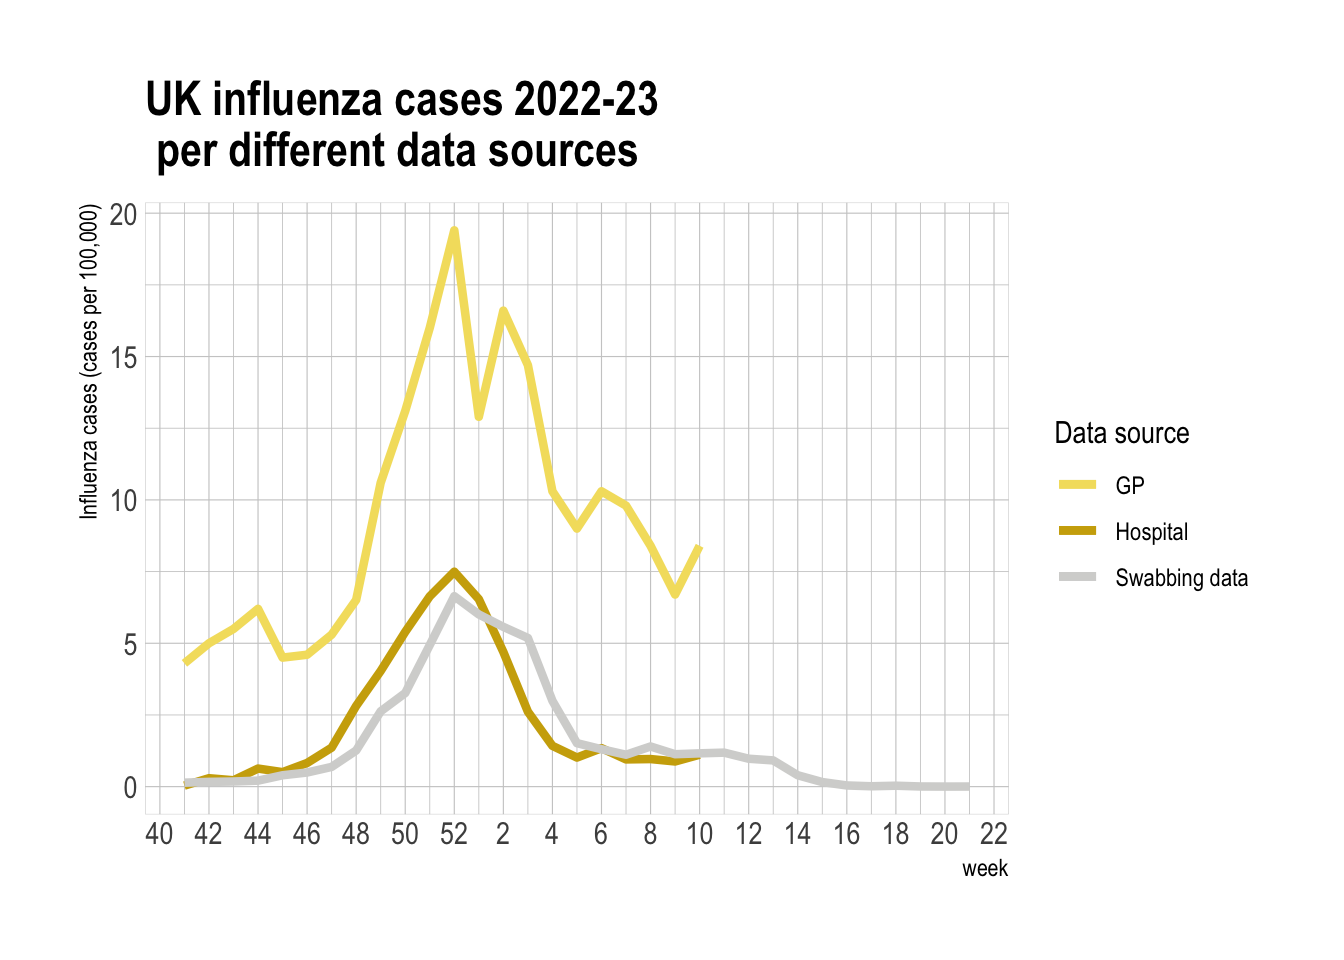
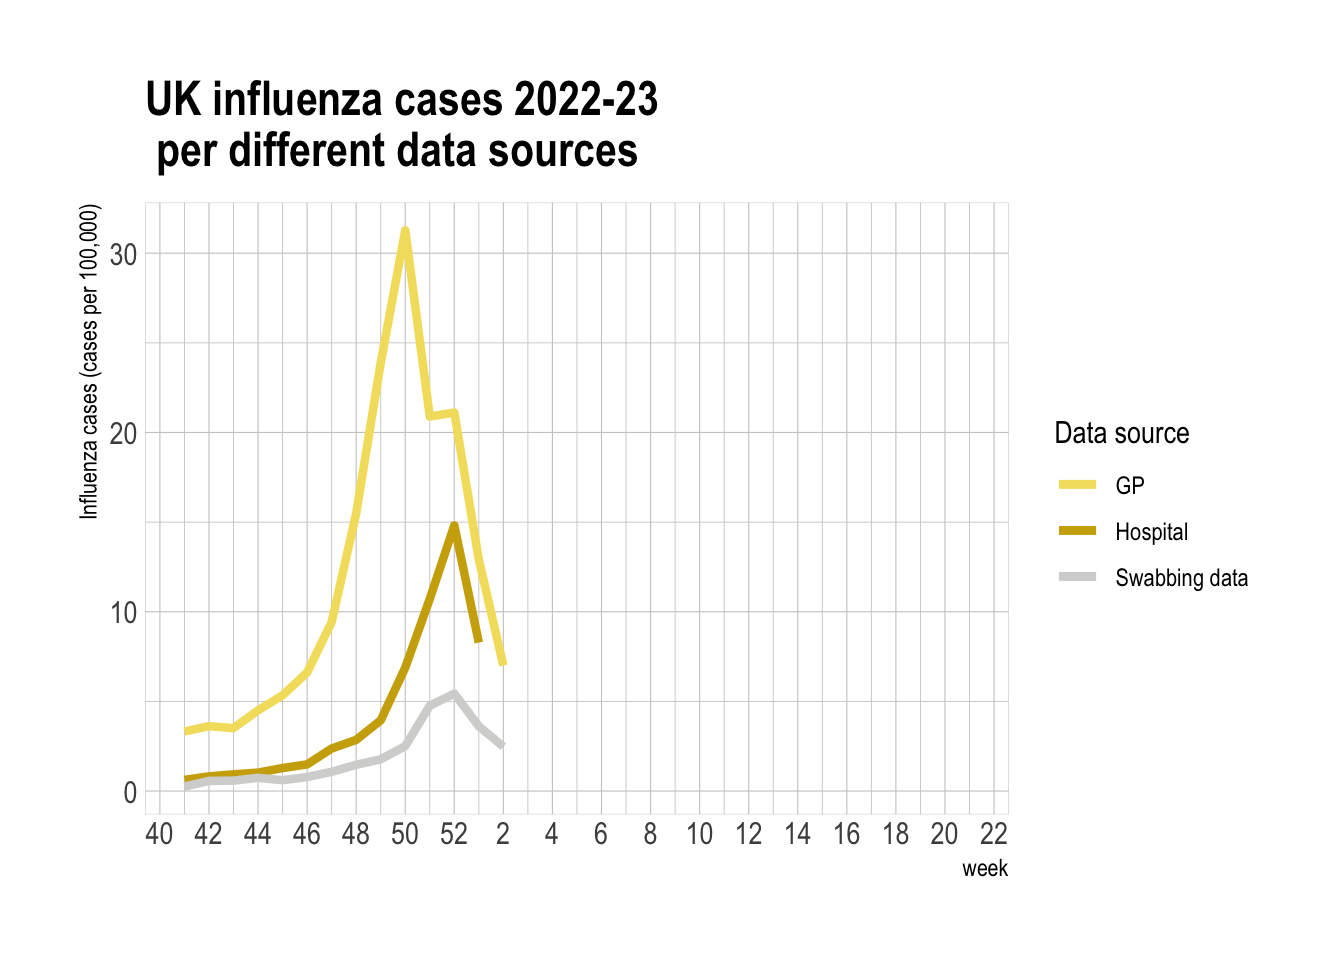
fixed plots and log plots

diff --git a/report/UKHSA_report.html b/report/UKHSA_report.html
@@ -20,69 +20,6 @@ ul.task-list li input[type="checkbox"] {
   margin: 0 0.8em 0.2em -1.6em;
   vertical-align: middle;
 }
-pre > code.sourceCode { white-space: pre; position: relative; }
-pre > code.sourceCode > span { display: inline-block; line-height: 1.25; }
-pre > code.sourceCode > span:empty { height: 1.2em; }
-.sourceCode { overflow: visible; }
-code.sourceCode > span { color: inherit; text-decoration: inherit; }
-div.sourceCode { margin: 1em 0; }
-pre.sourceCode { margin: 0; }
-@media screen {
-div.sourceCode { overflow: auto; }
-}
-@media print {
-pre > code.sourceCode { white-space: pre-wrap; }
-pre > code.sourceCode > span { text-indent: -5em; padding-left: 5em; }
-}
-pre.numberSource code
-  { counter-reset: source-line 0; }
-pre.numberSource code > span
-  { position: relative; left: -4em; counter-increment: source-line; }
-pre.numberSource code > span > a:first-child::before
-  { content: counter(source-line);
-    position: relative; left: -1em; text-align: right; vertical-align: baseline;
-    border: none; display: inline-block;
-    -webkit-touch-callout: none; -webkit-user-select: none;
-    -khtml-user-select: none; -moz-user-select: none;
-    -ms-user-select: none; user-select: none;
-    padding: 0 4px; width: 4em;
-    color: #aaaaaa;
-  }
-pre.numberSource { margin-left: 3em; border-left: 1px solid #aaaaaa;  padding-left: 4px; }
-div.sourceCode
-  {   }
-@media screen {
-pre > code.sourceCode > span > a:first-child::before { text-decoration: underline; }
-}
-code span.al { color: #ff0000; font-weight: bold; } /* Alert */
-code span.an { color: #60a0b0; font-weight: bold; font-style: italic; } /* Annotation */
-code span.at { color: #7d9029; } /* Attribute */
-code span.bn { color: #40a070; } /* BaseN */
-code span.bu { color: #008000; } /* BuiltIn */
-code span.cf { color: #007020; font-weight: bold; } /* ControlFlow */
-code span.ch { color: #4070a0; } /* Char */
-code span.cn { color: #880000; } /* Constant */
-code span.co { color: #60a0b0; font-style: italic; } /* Comment */
-code span.cv { color: #60a0b0; font-weight: bold; font-style: italic; } /* CommentVar */
-code span.do { color: #ba2121; font-style: italic; } /* Documentation */
-code span.dt { color: #902000; } /* DataType */
-code span.dv { color: #40a070; } /* DecVal */
-code span.er { color: #ff0000; font-weight: bold; } /* Error */
-code span.ex { } /* Extension */
-code span.fl { color: #40a070; } /* Float */
-code span.fu { color: #06287e; } /* Function */
-code span.im { color: #008000; font-weight: bold; } /* Import */
-code span.in { color: #60a0b0; font-weight: bold; font-style: italic; } /* Information */
-code span.kw { color: #007020; font-weight: bold; } /* Keyword */
-code span.op { color: #666666; } /* Operator */
-code span.ot { color: #007020; } /* Other */
-code span.pp { color: #bc7a00; } /* Preprocessor */
-code span.sc { color: #4070a0; } /* SpecialChar */
-code span.ss { color: #bb6688; } /* SpecialString */
-code span.st { color: #4070a0; } /* String */
-code span.va { color: #19177c; } /* Variable */
-code span.vs { color: #4070a0; } /* VerbatimString */
-code span.wa { color: #60a0b0; font-weight: bold; font-style: italic; } /* Warning */
 div.csl-bib-body { }
 div.csl-entry {
   clear: both;
@@ -204,24 +141,15 @@ div.csl-indent {
 <section id="season" class="level3">
 <h3 class="anchored" data-anchor-id="season">Season</h3>
 <div class="cell">
-<div class="sourceCode cell-code" id="cb1"><pre class="sourceCode r code-with-copy"><code class="sourceCode r"><span id="cb1-1"><a href="#cb1-1" aria-hidden="true" tabindex="-1"></a><span class="fu">source</span>(<span class="st">"../R_scripts/Season_data/season_201718.R"</span>)</span>
-<span id="cb1-2"><a href="#cb1-2" aria-hidden="true" tabindex="-1"></a><span class="fu">source</span>(<span class="st">"../R_scripts/Season_data/season_201819.R"</span>)</span>
-<span id="cb1-3"><a href="#cb1-3" aria-hidden="true" tabindex="-1"></a><span class="fu">source</span>(<span class="st">"../R_scripts/Season_data/season_201920.R"</span>)</span>
-<span id="cb1-4"><a href="#cb1-4" aria-hidden="true" tabindex="-1"></a><span class="fu">source</span>(<span class="st">"../R_scripts/Season_data/season_202223.R"</span>)</span>
-<span id="cb1-5"><a href="#cb1-5" aria-hidden="true" tabindex="-1"></a><span class="fu">par</span>(<span class="at">mfrow=</span><span class="fu">c</span>(<span class="dv">2</span>,<span class="dv">2</span>))</span>
-<span id="cb1-6"><a href="#cb1-6" aria-hidden="true" tabindex="-1"></a>plot_201718</span></code><button title="Copy to Clipboard" class="code-copy-button"><i class="bi"></i></button></pre></div>
 <div class="cell-output-display">
 <p><img src="UKHSA_report_files/figure-html/unnamed-chunk-3-1.png" class="img-fluid" width="672"></p>
 </div>
-<div class="sourceCode cell-code" id="cb2"><pre class="sourceCode r code-with-copy"><code class="sourceCode r"><span id="cb2-1"><a href="#cb2-1" aria-hidden="true" tabindex="-1"></a>plot_201819</span></code><button title="Copy to Clipboard" class="code-copy-button"><i class="bi"></i></button></pre></div>
 <div class="cell-output-display">
 <p><img src="UKHSA_report_files/figure-html/unnamed-chunk-3-2.png" class="img-fluid" width="672"></p>
 </div>
-<div class="sourceCode cell-code" id="cb3"><pre class="sourceCode r code-with-copy"><code class="sourceCode r"><span id="cb3-1"><a href="#cb3-1" aria-hidden="true" tabindex="-1"></a>plot_201920</span></code><button title="Copy to Clipboard" class="code-copy-button"><i class="bi"></i></button></pre></div>
 <div class="cell-output-display">
 <p><img src="UKHSA_report_files/figure-html/unnamed-chunk-3-3.png" class="img-fluid" width="672"></p>
 </div>
-<div class="sourceCode cell-code" id="cb4"><pre class="sourceCode r code-with-copy"><code class="sourceCode r"><span id="cb4-1"><a href="#cb4-1" aria-hidden="true" tabindex="-1"></a>plot_202223</span></code><button title="Copy to Clipboard" class="code-copy-button"><i class="bi"></i></button></pre></div>
 <div class="cell-output-display">
 <p><img src="UKHSA_report_files/figure-html/unnamed-chunk-3-4.png" class="img-fluid" width="672"></p>
 </div>
@@ -229,6 +157,55 @@ div.csl-indent {
 </section>
 <section id="log-graphs-and-r_0-value" class="level3">
 <h3 class="anchored" data-anchor-id="log-graphs-and-r_0-value">Log graphs and <span class="math inline">\(R_0\)</span> value</h3>
+<div class="cell">
+<div class="cell-output cell-output-stdout">
+<pre><code>[1] 1
+[1] 2
+[1] 3
+[1] 4
+[1] 5
+[1] 6
+[1] 7
+[1] 8
+[1] 9
+[1] 10
+[1] 11
+[1] 12
+[1] 13
+[1] 14
+[1] 15
+[1] 16
+[1] 17
+[1] 18
+[1] 19
+[1] 20
+[1] 21
+[1] 22
+[1] 23
+[1] 24
+[1] 25
+[1] 26
+[1] 27
+[1] 28
+[1] 29
+[1] 30
+[1] 31
+[1] 32
+[1] 33</code></pre>
+</div>
+<div class="cell-output-display">
+<p><img src="UKHSA_report_files/figure-html/unnamed-chunk-4-1.png" class="img-fluid" width="672"></p>
+</div>
+<div class="cell-output-display">
+<p><img src="UKHSA_report_files/figure-html/unnamed-chunk-4-2.png" class="img-fluid" width="672"></p>
+</div>
+<div class="cell-output-display">
+<p><img src="UKHSA_report_files/figure-html/unnamed-chunk-4-3.png" class="img-fluid" width="672"></p>
+</div>
+<div class="cell-output-display">
+<p><img src="UKHSA_report_files/figure-html/unnamed-chunk-4-4.png" class="img-fluid" width="672"></p>
+</div>
+</div>
 </section>
 <section id="stratified-by-flu-strain-type" class="level3">
 <h3 class="anchored" data-anchor-id="stratified-by-flu-strain-type">Stratified by Flu strain type</h3>
